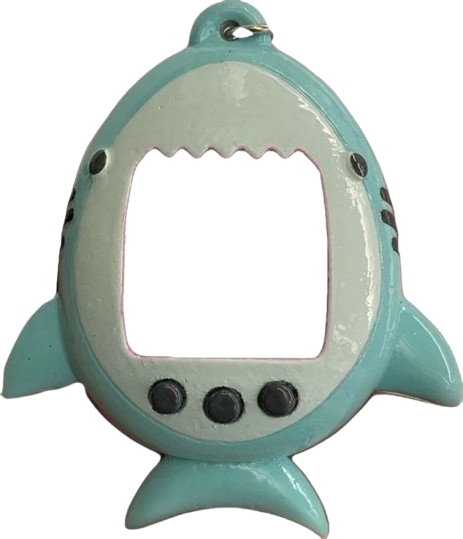
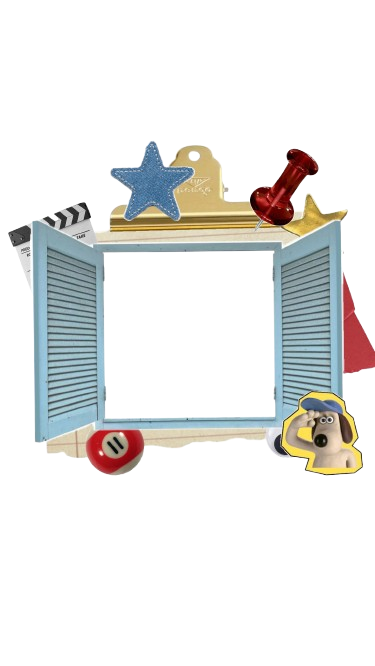
feat: add new frames and update index.html to include frame6, frame7, and frame8

diff --git a/index.html b/index.html
@@ -30,7 +30,13 @@
         <img src="frame5.png" alt="Frame 5" />
       </div>
       <div class="frame" onclick="selectFrame(this, 'frame6.png')">
-        <img src="6.png" alt="Frame 6" />
+        <img src="frame6.png" alt="Frame 6" />
+      </div>
+      <div class="frame" onclick="selectFrame(this, 'frame7.png')">
+        <img src="frame7.png" alt="Frame 7" />
+      </div>
+      <div class="frame" onclick="selectFrame(this, 'frame8.png')">
+        <img src="frame8.png" alt="Frame 8" />
       </div>
     </div>
 